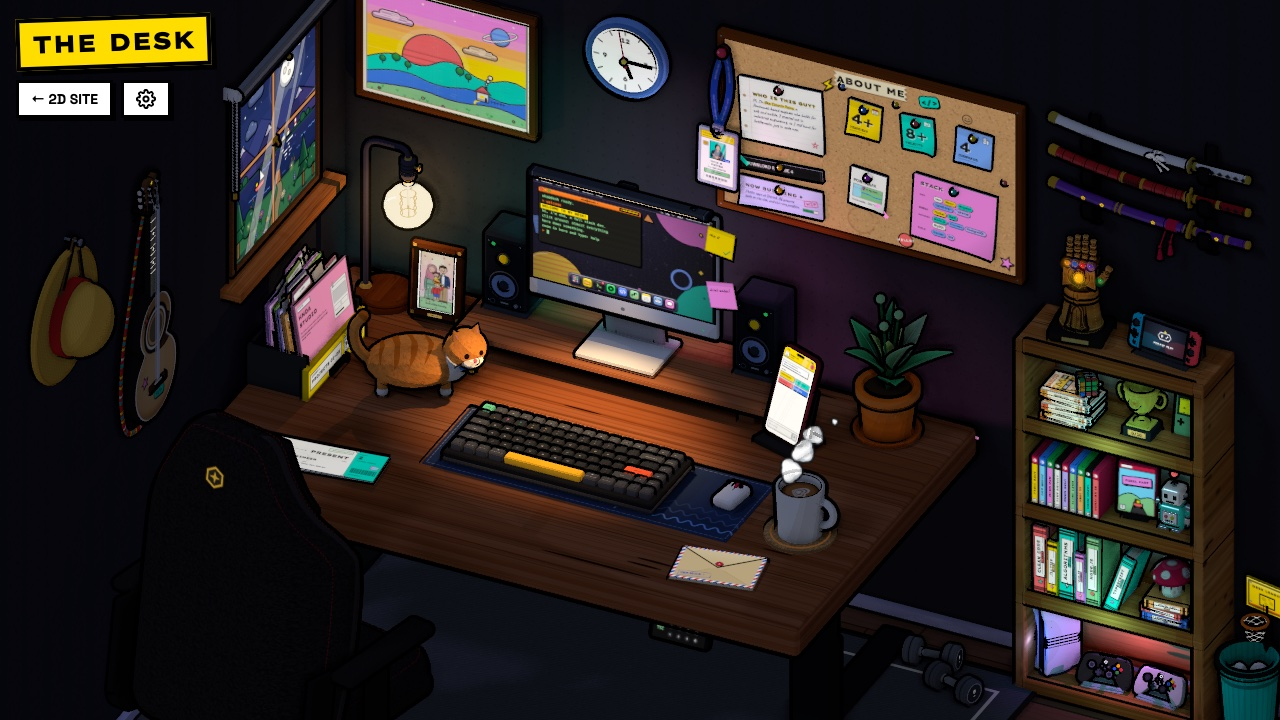
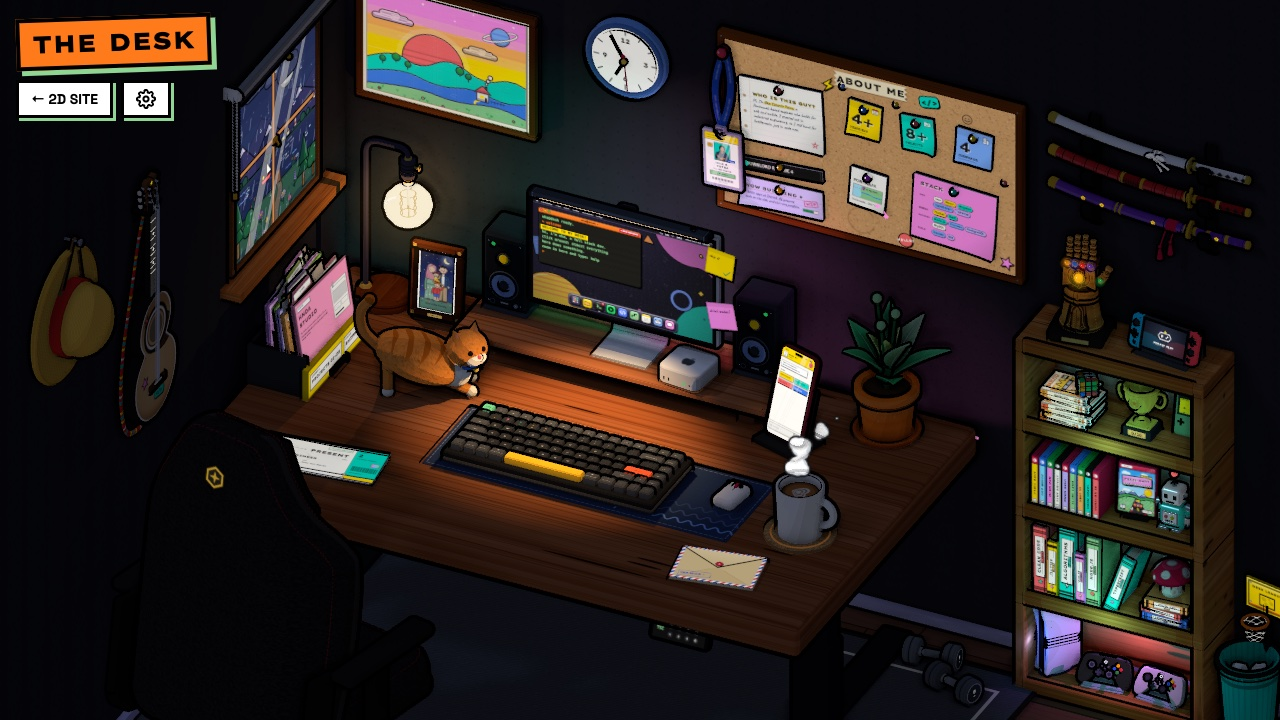
feat(desk): green power LED, high-contrast secret notification and refresh README screenshots

diff --git a/src/components/features/desk/deskScene.js b/src/components/features/desk/deskScene.js
@@ -3102,7 +3102,8 @@ export function createDeskScene({ container, projects, experiences, dark = false
       // Still counted for this visit
     }
     trophyPlate.userData.tex.redraw();
-    onEvent("secret", { found: secretsFound.size, total: SECRETS.length });
+    sfx.ding({ pitch: 1.15, volume: 0.22 });
+    onEvent("secret", { id, found: secretsFound.size, total: SECRETS.length });
     if (secretsFound.size === SECRETS.length) timers.push(setTimeout(celebrateSecrets, 1200));
   }
   // All of them: the trophy lights up gold and throws confetti
@@ -7139,11 +7140,16 @@ export function createDeskScene({ container, projects, experiences, dark = false
   jack.position.set(0.3, PORT_Y, MINI_FRONT + 0.001);
   const jackRim = new THREE.Mesh(track(new THREE.RingGeometry(0.018, 0.025, 20)), portChamfer);
   jackRim.position.set(0.3, PORT_Y, MINI_FRONT + 0.001);
-  const miniLedMat = track(new THREE.MeshBasicMaterial({ color: "#f4f6f8" }));
-  const miniLed = new THREE.Mesh(track(new THREE.CircleGeometry(0.008, 12)), miniLedMat);
-  miniLed.position.set(0.17, PORT_Y, MINI_FRONT + 0.001);
-  [jack, jackRim, miniLed].forEach((part) => (part.raycast = noRaycast));
-  macMini.add(jack, jackRim, miniLed);
+  const miniLedMat = track(new THREE.MeshBasicMaterial({ color: "#22c55e" }));
+  const miniLed = new THREE.Mesh(track(new THREE.CircleGeometry(0.012, 16)), miniLedMat);
+  miniLed.position.set(0.17, PORT_Y, MINI_FRONT + 0.002);
+  const miniLedRim = new THREE.Mesh(track(new THREE.RingGeometry(0.012, 0.018, 20)), portChamfer);
+  miniLedRim.position.set(0.17, PORT_Y, MINI_FRONT + 0.001);
+  const miniLedHaloMat = track(new THREE.MeshBasicMaterial({ color: "#22c55e", transparent: true, opacity: 0.65, depthWrite: false }));
+  const miniLedHalo = new THREE.Mesh(track(new THREE.CircleGeometry(0.038, 16)), miniLedHaloMat);
+  miniLedHalo.position.set(0.17, PORT_Y, MINI_FRONT + 0.0015);
+  [jack, jackRim, miniLed, miniLedRim, miniLedHalo].forEach((part) => (part.raycast = noRaycast));
+  macMini.add(jack, jackRim, miniLed, miniLedRim, miniLedHalo);
   // the back, seen from behind (so its x runs the other way): power, ethernet, HDMI, USB-C
   const MINI_BACK = -MINI_W / 2 - 0.002;
   const power = mesh(new THREE.CylinderGeometry(0.045, 0.045, 0.008, 28), portMat, { outline: 0, cast: false });
@@ -7159,7 +7165,8 @@ export function createDeskScene({ container, projects, experiences, dark = false
   register(macMini, {
     onHover: (on) => {
       gsap.to(macMini.position, { y: RISER_TOP + (on ? 0.06 : 0), duration: 0.25, ease: "power2.out", overwrite: true });
-      gsap.to(miniLed.scale, { x: on ? 1.8 : 1, y: on ? 1.8 : 1, duration: 0.25, overwrite: true });
+      gsap.to(miniLed.scale, { x: on ? 1.4 : 1, y: on ? 1.4 : 1, duration: 0.25, overwrite: true });
+      gsap.to(miniLedHalo.scale, { x: on ? 1.4 : 1, y: on ? 1.4 : 1, duration: 0.25, overwrite: true });
     },
     onClick: () => {
       gsap.fromTo(macMini.scale, { x: 1.04, y: 0.94, z: 1.04 }, { x: 1, y: 1, z: 1, duration: 0.4, ease: "elastic.out(1.2, 0.4)" });
@@ -7704,7 +7711,9 @@ export function createDeskScene({ container, projects, experiences, dark = false
       });
       ["pointerdown", "keydown"].forEach((evt) => window.addEventListener(evt, onFirstGesture, { capture: true, once: true }));
     }
-    miniLedMat.color.set("#f4f6f8");
+    miniLedMat.color.set("#22c55e");
+    miniLedHalo.visible = true;
+    gsap.to(miniLedHaloMat, { opacity: 0.65, duration: 0.3, overwrite: true });
     redrawScreen();
     gsap.to(screenPower, { level: 0.35, duration: 0.4, overwrite: true });
     gsap.to(computer, {
@@ -7733,7 +7742,8 @@ export function createDeskScene({ container, projects, experiences, dark = false
       if (desktop.exitConsole()) redrawScreen();
       computer.on = false;
       sfx.powerDown();
-      miniLedMat.color.set("#2a2c30");
+      miniLedMat.color.set("#1f2125");
+      gsap.to(miniLedHaloMat, { opacity: 0, duration: 0.25, overwrite: true, onComplete: () => { miniLedHalo.visible = false; } });
       gsap.to(screenPower, { level: 0, duration: 0.35, ease: "power2.in", overwrite: true });
       redrawScreen();
       return;

diff --git a/src/views/DeskPage.vue b/src/views/DeskPage.vue
@@ -95,9 +95,26 @@
       <transition name="hud-pop">
         <div
           v-if="secretToast"
-          :key="secretToast"
-          class="absolute top-4 right-4 pointer-events-none bg-black text-primary font-bold text-sm md:text-base px-3 py-2 border-4 border-black shadow-[5px_5px_0_0_#ff90e8] rotate-1">
-          {{ secretToast }}
+          :key="secretToast.key"
+          class="absolute top-4 right-4 md:top-6 md:right-6 z-50 pointer-events-auto cursor-pointer bg-[#ffdd00] border-3 md:border-4 border-black shadow-[6px_6px_0_0_#000000] p-2.5 md:p-3 flex items-center gap-3 select-none -rotate-1 max-w-[calc(100vw-2rem)] hover:scale-105 transition-transform"
+          title="Click to dismiss"
+          @click="secretToast = null">
+          <div class="w-10 h-10 md:w-11 md:h-11 bg-black text-[#ffdd00] flex items-center justify-center border-2 border-black font-extrabold text-lg md:text-xl shadow-[2px_2px_0_0_#ff90e8] shrink-0">
+            {{ secretToast.allDone ? '🏆' : '✦' }}
+          </div>
+          <div class="flex flex-col min-w-0 pr-1">
+            <div class="flex items-center gap-2">
+              <span class="text-[10px] md:text-xs font-black tracking-wider uppercase bg-black text-white px-1.5 py-0.5 leading-none">
+                {{ secretToast.allDone ? 'ALL SECRETS FOUND!' : 'SECRET FOUND' }}
+              </span>
+              <span class="text-xs md:text-sm font-bold text-black font-mono">
+                {{ secretToast.found }}/{{ secretToast.total }}
+              </span>
+            </div>
+            <div class="text-xs md:text-sm font-extrabold text-black leading-tight mt-1 truncate">
+              {{ secretToast.title }}
+            </div>
+          </div>
         </div>
       </transition>
 
@@ -152,6 +169,29 @@ const WALL_PAINTS = [
   { name: "Charcoal", hex: "#5c5c5c" },
   { name: "Graphite", hex: "#3a3a3a" },
 ];
+const SECRET_NAMES = {
+  snap: "Infinity Gauntlet Snap",
+  katana: "Katana Draw & Strike",
+  rat: "Mouse Scamper",
+  catKeys: "Cat on Keyboard",
+  rain: "Window Rainstorm",
+  star: "Night Shooting Star",
+  lamp: "Bouncy Edison Lamp",
+  painting: "Living Canvas Art",
+  chair: "Desk Chair Spin",
+  guitar: "Guitar Acoustic Strum",
+  luffy: "Straw Hat Strike",
+  clock: "Clock Time Rewind",
+  butterfly: "Bonsai Bloom",
+  lofi: "Lofi Beats on Monitor",
+  badge: "Staff ID Badge Flip",
+  gymPR: "10-Rep Dumbbell Workout",
+  konami: "Konami Cheat Code",
+  console: "Retro Handheld Console",
+  robot: "Bit the Glitchy Robot",
+  trash: "Paper Basketball Toss",
+};
+
 const SETTINGS_KEY = "desk-settings";
 const DEFAULT_WALL = "#3a3a3a";
 const stageRef = ref(null);
@@ -161,7 +201,7 @@ const focus = ref("overview");
 const introPlaying = ref(true);
 const projectOpen = ref(false);
 const consoleOn = ref(false);
-const secretToast = ref("");
+const secretToast = ref(null);
 const settingsOpen = ref(false);
 const settings = reactive(readSettings());
 let secretTimer = null;
@@ -201,9 +241,17 @@ function onEvent(name, payload = {}) {
   else if (name === "projectOpen") projectOpen.value = payload.open;
   else if (name === "console") consoleOn.value = payload.on;
   else if (name === "secret") {
-    secretToast.value = payload.found === payload.total ? "🏆 All secrets found!" : `✦ Secret found ${payload.found}/${payload.total}`;
+    const isAll = payload.found === payload.total;
+    const title = payload.id ? (SECRET_NAMES[payload.id] || payload.id) : (isAll ? "Master of the Desk!" : "Keep exploring the room!");
+    secretToast.value = {
+      allDone: isAll,
+      found: payload.found,
+      total: payload.total,
+      title,
+      key: `${payload.id || 'secret'}-${payload.found}-${Date.now()}`,
+    };
     clearTimeout(secretTimer);
-    secretTimer = setTimeout(() => (secretToast.value = ""), 2600);
+    secretTimer = setTimeout(() => (secretToast.value = null), 4500);
   }
   else if (name === "focus") {
     focus.value = payload.name;
